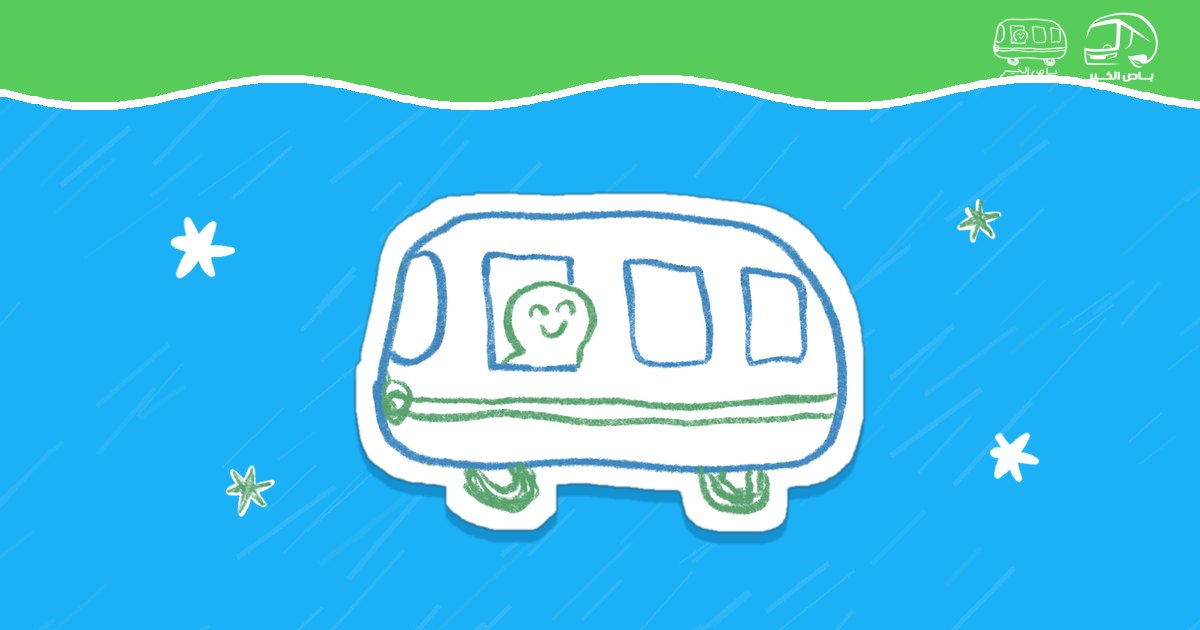
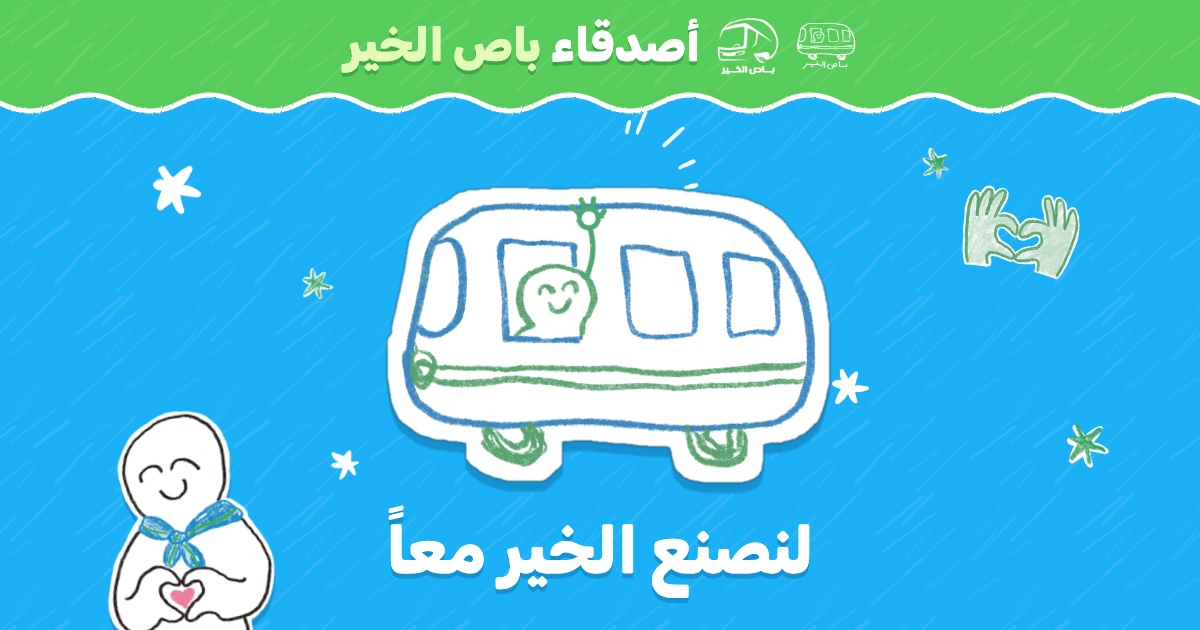
Cuter link preview: waving bus, friend with the heart, heart hands, sparkles, لنصنع الخير معاً

diff --git a/index.html b/index.html
@@ -8,7 +8,7 @@
   <meta property="og:type" content="website">
   <meta property="og:title" content="أصدقاء باص الخير">
   <meta property="og:description" content="لنصنع الخير معاً">
-  <meta property="og:image" content="https://badriyahs.github.io/khair-bus-friends/img/share.jpg">
+  <meta property="og:image" content="https://badriyahs.github.io/khair-bus-friends/img/share.jpg?v=2">
   <meta property="og:image:width" content="1200">
   <meta property="og:image:height" content="630">
   <meta name="twitter:card" content="summary_large_image">

diff --git a/initiative.html b/initiative.html
@@ -8,7 +8,7 @@
   <meta property="og:type" content="website">
   <meta property="og:title" content="أصدقاء باص الخير">
   <meta property="og:description" content="شنو بتييب؟">
-  <meta property="og:image" content="https://badriyahs.github.io/khair-bus-friends/img/share.jpg">
+  <meta property="og:image" content="https://badriyahs.github.io/khair-bus-friends/img/share.jpg?v=2">
   <meta property="og:image:width" content="1200">
   <meta property="og:image:height" content="630">
   <meta name="twitter:card" content="summary_large_image">
